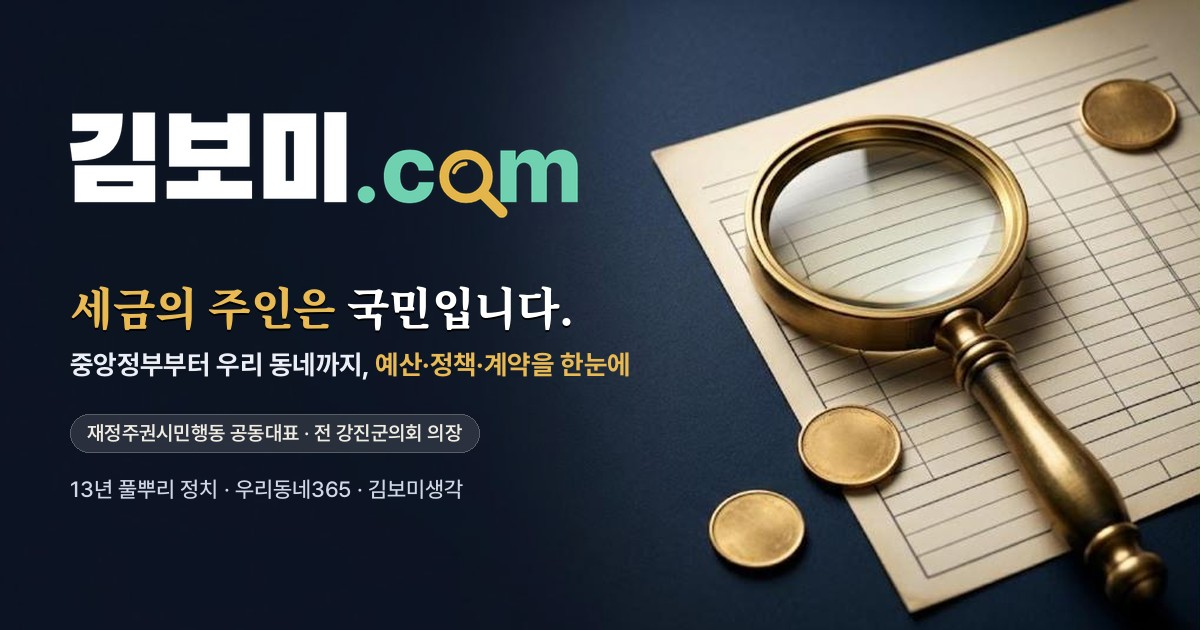
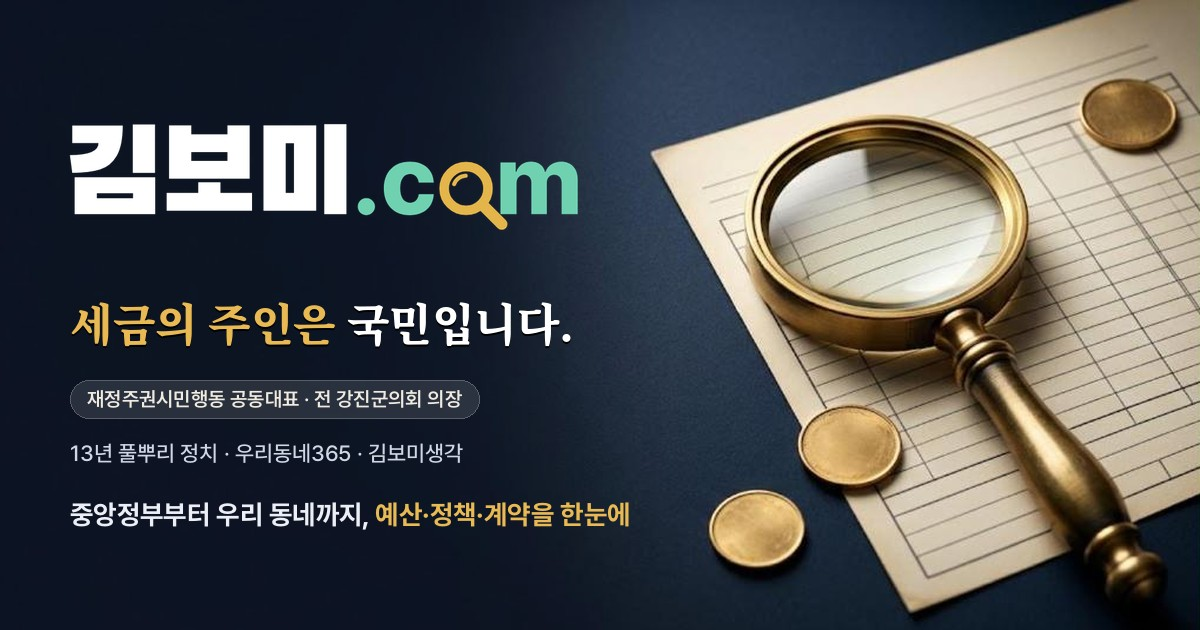
링크 미리보기 한 줄 설명을 맨 아래로 이동
Claude-Session: https://claude.ai/code/session_01E5k2hPPpDHzuq6RbcuZc7z

Changed region(s): [[0.0617, 0.4524, 0.5242, 0.8444], [0.0617, 0.181, 0.4933, 0.3619]]

diff --git a/narasalim.html b/narasalim.html
@@ -20,7 +20,7 @@
 <meta property="og:site_name" content="우리동네365">
 <meta property="og:locale" content="ko_KR">
 <meta property="og:image" content="https://www.xn--4k0b53xuva.com/og-ud365.jpg?v=20261107">
-<meta property="og:image:secure_url" content="https://xn--4k0b53xuva.com/og.jpg?v=20261109">
+<meta property="og:image:secure_url" content="https://xn--4k0b53xuva.com/og.jpg?v=20261110">
 <meta property="og:image:type" content="image/jpeg">
 <meta property="og:image:width" content="1200">
 <meta property="og:image:height" content="630">
@@ -28,15 +28,15 @@
 <meta name="twitter:card" content="summary_large_image">
 <meta name="twitter:title" content="우리동네365 — 무엇이 궁금하신가요?">
 <meta name="twitter:description" content="키워드 하나로 정책을 알고·배우고·제안하며, 혈세는 시민이 직접 감시·견제하는 국민주권실행 플랫폼.">
-<meta name="twitter:image" content="https://xn--4k0b53xuva.com/og.jpg?v=20261109">
+<meta name="twitter:image" content="https://xn--4k0b53xuva.com/og.jpg?v=20261110">
 <script type="application/ld+json">
-{"@context":"https://schema.org","@type":"WebSite","name":"우리동네365","alternateName":"김보미 시민주도 국민주권실행 플랫폼","url":"https://xn--4k0b53xuva.com/","inLanguage":"ko-KR","description":"전국 243개 지방자치단체의 세입결산규모·재정자립도(지방재정365 공시)·종합청렴도(국민권익위)·금고 약정이자율(행정안전부)을 한 화면에서 확인하는 시민주도 국민주권실행 플랫폼.","publisher":{"@type":"Organization","name":"우리동네365","founder":{"@type":"Person","name":"김보미"},"logo":{"@type":"ImageObject","url":"https://xn--4k0b53xuva.com/og.jpg?v=20261109"}},"potentialAction":{"@type":"SearchAction","target":"https://xn--4k0b53xuva.com/?q={search_term_string}","query-input":"required name=search_term_string"}}
+{"@context":"https://schema.org","@type":"WebSite","name":"우리동네365","alternateName":"김보미 시민주도 국민주권실행 플랫폼","url":"https://xn--4k0b53xuva.com/","inLanguage":"ko-KR","description":"전국 243개 지방자치단체의 세입결산규모·재정자립도(지방재정365 공시)·종합청렴도(국민권익위)·금고 약정이자율(행정안전부)을 한 화면에서 확인하는 시민주도 국민주권실행 플랫폼.","publisher":{"@type":"Organization","name":"우리동네365","founder":{"@type":"Person","name":"김보미"},"logo":{"@type":"ImageObject","url":"https://xn--4k0b53xuva.com/og.jpg?v=20261110"}},"potentialAction":{"@type":"SearchAction","target":"https://xn--4k0b53xuva.com/?q={search_term_string}","query-input":"required name=search_term_string"}}
 </script>
 <script type="application/ld+json">
 {"@context":"https://schema.org","@type":"Person","name":"김보미","alternateName":["Kim Bomi","강진 김보미","강진군 김보미","최연소 기초의회 의장 김보미"],"url":"https://xn--4k0b53xuva.com/","image":"https://xn--4k0b53xuva.com/about.jpg","jobTitle":["정치인","시민주도 국민주권실행 플랫폼 '우리동네365' 운영자"],"description":"1989년 12월 4일생. 전 제8·9대 전라남도 강진군의회 의원, 제9대 전반기 강진군의회 의장(만 32세, 전국 최연소 기초의회 의장·강진군의회 최초 여성 의장). 2018년 28세에 4개 군 총합 최다득표로 비례대표 1순위 당선, 강진군의회 입성(지역 최초 20대 여성 청년 의원). 2022년 재선 때는 가·나 선거구를 통틀어 최다득표. 8년 연속 매년 12월 의정활동비·월정수당 전액을 관내 지역아동센터에 기부. 2026년 제9회 전국동시지방선거 더불어민주당 강진군수 예비후보(당내 경선 참여). 시민주도 국민주권실행 플랫폼 '우리동네365'(김보미.com) 운영자.","gender":"Female","nationality":"대한민국","birthDate":"1989-12-04","alumniOf":[{"@type":"EducationalOrganization","name":"강진고등학교"},{"@type":"EducationalOrganization","name":"전남대학교"}],"affiliation":{"@type":"Organization","name":"더불어민주당"},"memberOf":[{"@type":"Organization","name":"더불어민주당 참좋은지방정부위원회"},{"@type":"Organization","name":"더민주전국혁신회의"}],"award":["전국 최연소 기초의회 의장(만 32세, 2022)","강진군의회 최초 여성 의장","UN국제부패방지의 날 기념조직위원회 등 300여 단체 '부패방지청렴인 표창' (2026.1.29)"],"hasOccupation":{"@type":"Occupation","name":"정치인","occupationLocation":{"@type":"AdministrativeArea","name":"전라남도 강진군"}},"knowsAbout":["지방재정","예산 감시","재정자립도","재정자주도","종합청렴도","재정주권","시민운동","시민주도 국민주권실행","주민참여예산","청년정치","여성정치","기본소득","강진 기본소득","강진 365 대시보드"],"sameAs":["https://www.xn--4k0b53xuva.com/","https://www.xn--p89av0gr2mutka661e.kr/"]}
 </script>
 <script type="application/ld+json">
-{"@context":"https://schema.org","@type":"Organization","name":"우리동네365","alternateName":["김보미.com","시민주도 국민주권실행 플랫폼","시민주도 국민주권실행 플랫폼"],"url":"https://xn--4k0b53xuva.com/","logo":"https://xn--4k0b53xuva.com/og.jpg?v=20261109","image":"https://xn--4k0b53xuva.com/og.jpg?v=20261109","description":"전국 243개 지방자치단체 재정을 한 화면에 펼쳐 시민이 직접 감시·시정요구하는 시민주도 국민주권실행 플랫폼.","founder":{"@type":"Person","name":"김보미"},"foundingDate":"2026","areaServed":{"@type":"Country","name":"대한민국"},"slogan":"세금의 주인은 국민입니다. 재정의 주인도 국민입니다."}
+{"@context":"https://schema.org","@type":"Organization","name":"우리동네365","alternateName":["김보미.com","시민주도 국민주권실행 플랫폼","시민주도 국민주권실행 플랫폼"],"url":"https://xn--4k0b53xuva.com/","logo":"https://xn--4k0b53xuva.com/og.jpg?v=20261110","image":"https://xn--4k0b53xuva.com/og.jpg?v=20261110","description":"전국 243개 지방자치단체 재정을 한 화면에 펼쳐 시민이 직접 감시·시정요구하는 시민주도 국민주권실행 플랫폼.","founder":{"@type":"Person","name":"김보미"},"foundingDate":"2026","areaServed":{"@type":"Country","name":"대한민국"},"slogan":"세금의 주인은 국민입니다. 재정의 주인도 국민입니다."}
 </script>
 <script type="application/ld+json">
 {"@context":"https://schema.org","@type":"FAQPage","mainEntity":[{"@type":"Question","name":"우리 동네 재정자립도는 어떻게 확인하나요?","acceptedAnswer":{"@type":"Answer","text":"우리동네365(김보미.com) 상단의 '우리 동네 3초 진단'에서 시·도와 시·군·구를 선택하면 지방재정365 공시 기준 세입결산규모·재정자립도·자체수입과 국민권익위 종합청렴도, 행정안전부 금고 약정이자율이 표시됩니다. 공식 출처를 확보하지 못한 지표(집행률·채무비율 등)는 수치를 만들어내지 않고 '—'로 비워 둡니다."}},{"@type":"Question","name":"지방자치단체 금고 약정이자율은 어디서 볼 수 있나요?","acceptedAnswer":{"@type":"Answer","text":"행정안전부는 2026.1.27 전국 243개 지방정부 금고 이자율을 지방재정365(lofin365.go.kr)에 통합공개했습니다. 본 사이트의 '데이터 시각화' 탭과 '종합 진단' 정부공시 확장 블록에서 전국 평균 2.53%·광역 최고 인천 4.57%·기초 최고 인천 서구 4.82%·기초 최저 경기 양평군 1.78% 등을 한눈에 비교할 수 있습니다."}},{"@type":"Question","name":"243개 지자체 종합청렴도 등급은 어떻게 공개되나요?","acceptedAnswer":{"@type":"Answer","text":"국민권익위원회가 매년 발표하는 종합청렴도 평가 결과(공공데이터포털 15083994)를 본 사이트에 그대로 연동했습니다. 우리 동네를 선택하면 1~5등급(A~E)이 진단 카드에 표시됩니다."}},{"@type":"Question","name":"수의계약·일감 몰아주기는 어떻게 감시하나요?","acceptedAnswer":{"@type":"Answer","text":"'계약·이상신호' 탭에서 시·군·구를 선택하면 최근 계약 5건·체결방식 분포(수의계약 vs 경쟁입찰)·유형별 분포(공사·용역·물품) 그래프와 5가지 위험패턴(자전거래·단가부풀리기·일감몰아주기·수의계약 과다·집행지연) 자동 탐지 결과가 표시됩니다."}},{"@type":"Question","name":"의회에 시정을 어떻게 요구하나요?","acceptedAnswer":{"@type":"Answer","text":"하단 '시민 감시·참여' 섹션에서 우리 지역을 선택하고 핵심 의견을 작성한 뒤 AI 다듬기 → 시정요구 메일 작성창을 열면 해당 시·군·구 의회로 직접 전달할 수 있습니다. 의회는 예산 심의·결산 승인·행정사무감사·조례 제·개정·시정질문 등의 권한으로 시민 의견을 공식 안건으로 다룰 수 있습니다."}},{"@type":"Question","name":"김보미는 누구인가요?","acceptedAnswer":{"@type":"Answer","text":"1989년 12월 4일생. 제8·9대 전라남도 강진군의회 의원, 제9대 전반기 강진군의회 의장(만 32세, 전국 최연소 기초의회 의장·강진군의회 최초 여성 의장). 2018년 28세에 4개 군 총합 최다득표로 비례대표 1순위 당선, 강진군의회 입성(지역 최초 20대 여성 청년 의원). 2022년 재선 때는 가·나 선거구를 통틀어 최다득표. 8년 연속 매년 12월 의정활동비·월정수당 전액을 관내 지역아동센터에 기부. 2026년 제9회 전국동시지방선거 더불어민주당 강진군수 예비후보(당내 경선 참여). 시민주도 국민주권실행 플랫폼 '우리동네365' 운영자."}}]}
@@ -48,7 +48,7 @@
 {"@context":"https://schema.org","@type":"GovernmentService","name":"우리동네365 — 시민주도 국민주권실행 플랫폼","serviceType":"공공재정 정보 공개·시민감시","provider":{"@type":"Organization","name":"우리동네365","founder":{"@type":"Person","name":"김보미"},"url":"https://xn--4k0b53xuva.com/"},"areaServed":{"@type":"Country","name":"대한민국"},"audience":{"@type":"Audience","audienceType":"대한민국 국민"},"availableChannel":{"@type":"ServiceChannel","serviceUrl":"https://xn--4k0b53xuva.com/","availableLanguage":["ko-KR","en"]},"category":["지방재정 공개","청렴도 공개","수의계약 감시","예산 시민감시","주민참여예산"]}
 </script>
 <script type="application/ld+json">
-{"@context":"https://schema.org","@type":"NewsArticle","headline":"행안부, 전국 243개 지방정부 금고 이자율 통합공개 (2026.1.27) — 우리동네365 전수 반영","datePublished":"2026-01-27","dateModified":"2026-06-01","author":{"@type":"Person","name":"김보미"},"publisher":{"@type":"Organization","name":"우리동네365","logo":{"@type":"ImageObject","url":"https://xn--4k0b53xuva.com/og.jpg?v=20261109"}},"image":"https://xn--4k0b53xuva.com/og.jpg?v=20261109","mainEntityOfPage":"https://xn--4k0b53xuva.com/","description":"전국 평균 2.53%·광역 최고 인천 4.57%·광역 최저 경북 2.15%·기초 최고 인천 서구 4.82%·기초 최저 경기 양평군 1.78%. 전라남도 강진군 2.04%(전남 최저). 본 사이트가 행안부 공식 hwpx 보도자료를 파싱해 243개 지자체 전수를 그대로 반영했습니다."}
+{"@context":"https://schema.org","@type":"NewsArticle","headline":"행안부, 전국 243개 지방정부 금고 이자율 통합공개 (2026.1.27) — 우리동네365 전수 반영","datePublished":"2026-01-27","dateModified":"2026-06-01","author":{"@type":"Person","name":"김보미"},"publisher":{"@type":"Organization","name":"우리동네365","logo":{"@type":"ImageObject","url":"https://xn--4k0b53xuva.com/og.jpg?v=20261110"}},"image":"https://xn--4k0b53xuva.com/og.jpg?v=20261110","mainEntityOfPage":"https://xn--4k0b53xuva.com/","description":"전국 평균 2.53%·광역 최고 인천 4.57%·광역 최저 경북 2.15%·기초 최고 인천 서구 4.82%·기초 최저 경기 양평군 1.78%. 전라남도 강진군 2.04%(전남 최저). 본 사이트가 행안부 공식 hwpx 보도자료를 파싱해 243개 지자체 전수를 그대로 반영했습니다."}
 </script>
 <link rel="alternate" hreflang="ko" href="https://xn--4k0b53xuva.com/">
 <link rel="alternate" hreflang="x-default" href="https://xn--4k0b53xuva.com/">

diff --git a/report.html b/report.html
@@ -10,9 +10,9 @@
 <meta property="og:description" content="철저한 비밀 보장. 예산 낭비·수의계약 의혹·부당한 압박, 주저 없이 알려주세요. 중앙정부 62개 부처와 지방정부 243개 시·군·구의 예산·집행·계약을 한눈에.">
 <meta property="og:url" content="https://www.xn--4k0b53xuva.com/report.html">
 <link rel="canonical" href="https://www.xn--4k0b53xuva.com/report.html">
-<meta property="og:image" content="https://www.xn--4k0b53xuva.com/og.jpg?v=20261109">
+<meta property="og:image" content="https://www.xn--4k0b53xuva.com/og.jpg?v=20261110">
 <meta property="og:image:width" content="1200"><meta property="og:image:height" content="630">
-<meta name="twitter:card" content="summary_large_image"><meta name="twitter:image" content="https://www.xn--4k0b53xuva.com/og.jpg?v=20261109">
+<meta name="twitter:card" content="summary_large_image"><meta name="twitter:image" content="https://www.xn--4k0b53xuva.com/og.jpg?v=20261110">
 <link rel="stylesheet" href="https://cdn.jsdelivr.net/gh/orioncactus/pretendard@v1.3.9/dist/web/variable/pretendardvariable-dynamic-subset.min.css"><style>:where(button,input,select,textarea){font-family:inherit}:where(h1,h2,h3,h4){text-wrap:balance;word-break:keep-all}:where(p,li,dd){text-wrap:pretty}</style>
 <link rel="preconnect" href="https://fonts.googleapis.com"><link rel="preconnect" href="https://fonts.gstatic.com" crossorigin>
 <link href="https://fonts.googleapis.com/css2?family=Noto+Serif+KR:wght@600;700;900&display=swap" rel="stylesheet">

diff --git a/vision.html b/vision.html
@@ -10,10 +10,10 @@
 <meta property="og:description" content="밀실이 아니라 공개된 글로. 김보미의 정치개혁 제안과 현안 입장 모음. 중앙정부 62개 부처와 지방정부 243개 시·군·구의 예산·집행·계약을 한눈에.">
 <meta property="og:url" content="https://www.xn--4k0b53xuva.com/vision.html">
 <link rel="canonical" href="https://www.xn--4k0b53xuva.com/vision.html">
-<meta property="og:image" content="https://www.xn--4k0b53xuva.com/og.jpg?v=20261109">
+<meta property="og:image" content="https://www.xn--4k0b53xuva.com/og.jpg?v=20261110">
 <meta property="og:image:width" content="1200"><meta property="og:image:height" content="630">
 <meta name="twitter:card" content="summary_large_image">
-<meta name="twitter:image" content="https://www.xn--4k0b53xuva.com/og.jpg?v=20261109">
+<meta name="twitter:image" content="https://www.xn--4k0b53xuva.com/og.jpg?v=20261110">
 
 <link rel="preconnect" href="https://fonts.googleapis.com"><link rel="preconnect" href="https://fonts.gstatic.com" crossorigin>
 <link rel="stylesheet" href="https://cdn.jsdelivr.net/gh/orioncactus/pretendard@v1.3.9/dist/web/variable/pretendardvariable-dynamic-subset.min.css"><style>:where(button,input,select,textarea){font-family:inherit}:where(h1,h2,h3,h4){text-wrap:balance;word-break:keep-all}:where(p,li,dd){text-wrap:pretty}</style>

diff --git a/pledge.html b/pledge.html
@@ -11,7 +11,7 @@
 <meta property="og:title" content="재정주권시민행동 함께하기 — 김보미 공동대표">
 <meta property="og:description" content="내 돈은 내 권리다. 예산·결산을 시민이 직접 감시하는 「재정주권시민행동」에 회원으로, 후원으로 함께해 주세요. 중앙정부 62개 부처와 지방정부 243개 시·군·구의 예산·집행·계약을 한눈에.">
 <meta property="og:url" content="https://www.xn--4k0b53xuva.com/pledge.html">
-<meta property="og:image" content="https://www.xn--4k0b53xuva.com/og.jpg?v=20261109">
+<meta property="og:image" content="https://www.xn--4k0b53xuva.com/og.jpg?v=20261110">
 <meta name="twitter:card" content="summary_large_image">
 <link rel="stylesheet" href="https://cdn.jsdelivr.net/gh/orioncactus/pretendard@v1.3.9/dist/web/variable/pretendardvariable-dynamic-subset.min.css"><style>:where(button,input,select,textarea){font-family:inherit}:where(h1,h2,h3,h4){text-wrap:balance;word-break:keep-all}:where(p,li,dd){text-wrap:pretty}</style>
 <link rel="preconnect" href="https://fonts.googleapis.com"><link rel="preconnect" href="https://fonts.gstatic.com" crossorigin>

diff --git a/전남7개군_계약현황_총정리_1.html b/전남7개군_계약현황_총정리_1.html
@@ -9,7 +9,7 @@
 <meta property="og:title" content="전남 7개군 계약현황 총정리 (2018.7 ~ 2026.8)">
 <meta property="og:description" content="강진·장흥·보성·고흥·진도·완도·해남 7개 군의 2018년 7월~2026년 8월 계약현황을 한눈에 정리한 시민 감시 자료.">
 <meta property="og:url" content="https://www.xn--4k0b53xuva.com/%EC%A0%84%EB%82%A87%EA%B0%9C%EA%B5%B0_%EA%B3%84%EC%95%BD%ED%98%84%ED%99%A9_%EC%B4%9D%EC%A0%95%EB%A6%AC_1.html">
-<meta property="og:image" content="https://www.xn--4k0b53xuva.com/og.jpg?v=20261109">
+<meta property="og:image" content="https://www.xn--4k0b53xuva.com/og.jpg?v=20261110">
 <title>전남 7개군 계약현황 총정리 (2018.7 ~ 2026.8) — 강진·장흥·보성·고흥·진도·완도·해남</title>
 <link rel="stylesheet" href="https://cdn.jsdelivr.net/gh/orioncactus/pretendard@v1.3.9/dist/web/variable/pretendardvariable-dynamic-subset.min.css"><style>:where(button,input,select,textarea){font-family:inherit}:where(h1,h2,h3,h4){text-wrap:balance;word-break:keep-all}:where(p,li,dd){text-wrap:pretty}</style>
 <style>

diff --git a/press.html b/press.html
@@ -10,7 +10,7 @@
 <meta property="og:title" content="언론보도·영상 아카이브 — 김보미">
 <meta property="og:description" content="김보미 관련 기사·인터뷰·방송·유튜브 아카이브(최신순). 중앙정부 62개 부처와 지방정부 243개 시·군·구의 예산·집행·계약을 한눈에.">
 <meta property="og:url" content="https://www.xn--4k0b53xuva.com/press.html">
-<meta property="og:image" content="https://www.xn--4k0b53xuva.com/og.jpg?v=20261109">
+<meta property="og:image" content="https://www.xn--4k0b53xuva.com/og.jpg?v=20261110">
 
 <link rel="preconnect" href="https://fonts.googleapis.com"><link rel="preconnect" href="https://fonts.gstatic.com" crossorigin>
 <link rel="stylesheet" href="https://cdn.jsdelivr.net/gh/orioncactus/pretendard@v1.3.9/dist/web/variable/pretendardvariable-dynamic-subset.min.css"><style>:where(button,input,select,textarea){font-family:inherit}:where(h1,h2,h3,h4){text-wrap:balance;word-break:keep-all}:where(p,li,dd){text-wrap:pretty}</style>

diff --git a/almedalen.html b/almedalen.html
@@ -8,7 +8,7 @@
 <meta name="description" content="Kim Bomi (Democratic Party of Korea) — Almedalen 2026 town-square address. Svenska · English · 한국어.">
 <meta property="og:title" content="Kim Bomi · Almedalen 2026 — 광장연설">
 <meta property="og:description" content="Talet i sin helhet — Svenska · English · 한국어">
-<meta property="og:image" content="https://www.xn--4k0b53xuva.com/og.jpg?v=20261109">
+<meta property="og:image" content="https://www.xn--4k0b53xuva.com/og.jpg?v=20261110">
 <link rel="stylesheet" href="https://cdn.jsdelivr.net/gh/orioncactus/pretendard@v1.3.9/dist/web/variable/pretendardvariable-dynamic-subset.min.css"><style>:where(button,input,select,textarea){font-family:inherit}:where(h1,h2,h3,h4){text-wrap:balance;word-break:keep-all}:where(p,li,dd){text-wrap:pretty}</style>
 <style>html,body{margin:0;min-height:100%;background:#06121f;
 background:radial-gradient(1200px 600px at 50% -10%,#0e2c40,#06121f)}</style>

diff --git a/live.html b/live.html
@@ -10,7 +10,7 @@
 <meta property="og:title" content="정책 실시간 — 정부·국회·청년정책 | 김보미">
 <meta property="og:description" content="정부·국회 발표와 청년정책을 공공 API 원자료 그대로, 원문 링크와 함께.">
 <meta property="og:url" content="https://www.xn--4k0b53xuva.com/live.html">
-<meta property="og:image" content="https://www.xn--4k0b53xuva.com/og.jpg?v=20261109">
+<meta property="og:image" content="https://www.xn--4k0b53xuva.com/og.jpg?v=20261110">
 
 <link rel="preconnect" href="https://fonts.googleapis.com"><link rel="preconnect" href="https://fonts.gstatic.com" crossorigin>
 <link rel="stylesheet" href="https://cdn.jsdelivr.net/gh/orioncactus/pretendard@v1.3.9/dist/web/variable/pretendardvariable-dynamic-subset.min.css"><style>:where(button,input,select,textarea){font-family:inherit}:where(h1,h2,h3,h4){text-wrap:balance;word-break:keep-all}:where(p,li,dd){text-wrap:pretty}</style>

diff --git a/privacy.html b/privacy.html
@@ -6,7 +6,7 @@
 <title>개인정보처리방침 — 김보미.com</title>
 <meta property="og:title" content="개인정보처리방침 — 김보미.com">
 <meta property="og:description" content="김보미.com이 수집하는 개인정보의 항목·목적·보유기간·국외이전·정보주체 권리 안내입니다.">
-<meta property="og:image" content="https://www.xn--4k0b53xuva.com/og.jpg?v=20261109">
+<meta property="og:image" content="https://www.xn--4k0b53xuva.com/og.jpg?v=20261110">
 <meta name="description" content="김보미.com 개인정보처리방침 — 수집 항목, 이용 목적, 보유기간, 처리위탁·국외이전, 정보주체의 권리">
 <link rel="canonical" href="https://www.xn--4k0b53xuva.com/privacy.html">
 <meta name="robots" content="noindex,follow">
